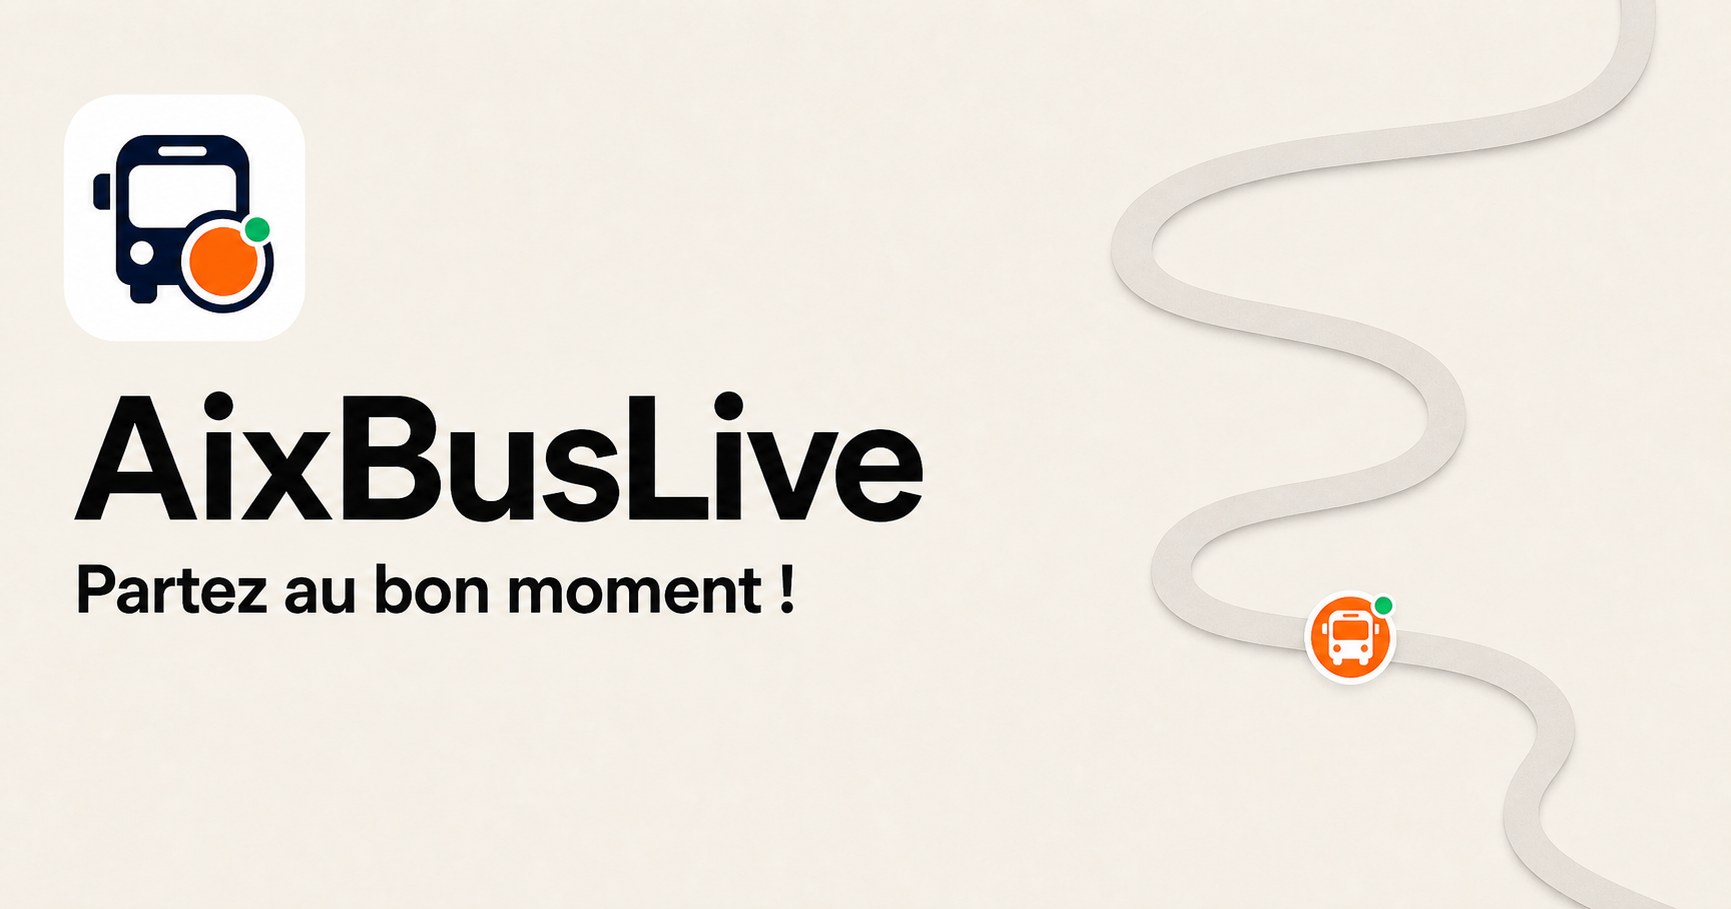
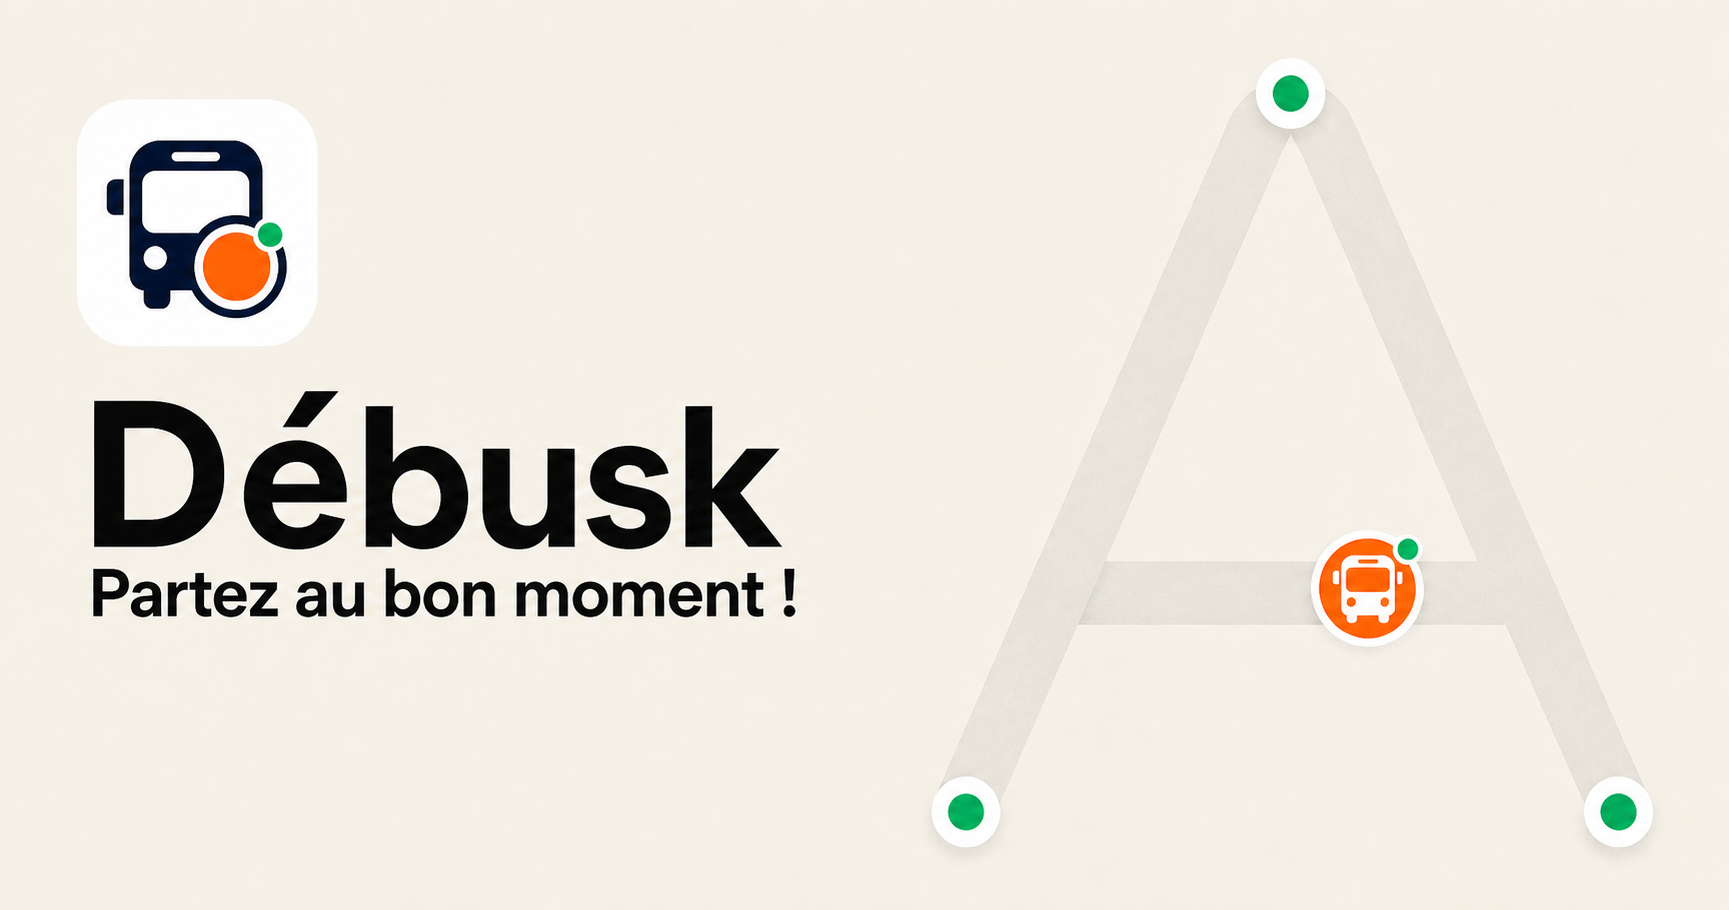
feat: rebrand landing as Débusk

diff --git a/app/ContactDialog.tsx b/app/ContactDialog.tsx
@@ -117,8 +117,8 @@ export function ContactDialog({ isOpen, onClose }: ContactDialogProps) {
     setError(null);
 
     try {
-      const senderName = cleanName || cleanEmail || "Visiteur AixBusLive";
-      const subject = `[Site AixBusLive] ${contactType}`;
+      const senderName = cleanName || cleanEmail || "Visiteur Débusk";
+      const subject = `[Site Débusk] ${contactType}`;
       const sentAt = new Intl.DateTimeFormat("fr-FR", {
         dateStyle: "full",
         timeStyle: "short",
@@ -144,8 +144,8 @@ export function ContactDialog({ isOpen, onClose }: ContactDialogProps) {
             reply_to: cleanEmail,
             message: cleanMessage,
             time: sentAt,
-            app_name: "AixBusLive",
-            source: "Site AixBusLive",
+            app_name: "Débusk",
+            source: "Site Débusk",
           },
         }),
       });
@@ -161,7 +161,7 @@ export function ContactDialog({ isOpen, onClose }: ContactDialogProps) {
       setMessage("");
       setSent(true);
     } catch (sendError) {
-      console.error("[AixBusLive contact]", sendError);
+      console.error("[Débusk contact]", sendError);
       setError("L’envoi a échoué. Réessayez dans un instant.");
     } finally {
       setSending(false);
@@ -208,7 +208,7 @@ export function ContactDialog({ isOpen, onClose }: ContactDialogProps) {
           <div className="contact-success" role="status" aria-live="polite">
             <span className="contact-success-mark" aria-hidden="true">✓</span>
             <h3>Message envoyé.</h3>
-            <p>Merci — il est bien arrivé à l’équipe AixBusLive.</p>
+            <p>Merci — il est bien arrivé à l’équipe Débusk.</p>
             <button ref={successButtonRef} type="button" onClick={onClose}>
               Fermer
             </button>

diff --git a/app/page.tsx b/app/page.tsx
@@ -8,13 +8,13 @@ const storeLinks = [
   {
     eyebrow: "Télécharger sur",
     label: "l’App Store",
-    href: "https://apps.apple.com/fr/search?term=AixBusLive",
+    href: "https://apps.apple.com/fr/search?term=D%C3%A9busk",
     Icon: FaApple,
   },
   {
     eyebrow: "Disponible sur",
     label: "Google Play",
-    href: "https://play.google.com/store/search?q=AixBusLive&c=apps",
+    href: "https://play.google.com/store/search?q=D%C3%A9busk&c=apps",
     Icon: FaGooglePlay,
   },
 ];
@@ -23,7 +23,7 @@ function StoreButtons({ compact = false }: { compact?: boolean }) {
   return (
     <div
       className={`store-actions ${compact ? "store-actions-compact" : ""}`}
-      aria-label="Télécharger AixBusLive"
+      aria-label="Télécharger Débusk"
     >
       {storeLinks.map((store, index) => {
         const Icon = store.Icon;
@@ -152,7 +152,7 @@ export default function Home() {
               unoptimized
             />
           </span>
-          <p className="section-eyebrow">AixBusLive</p>
+          <p className="section-eyebrow">Débusk</p>
           <h2 id="download-title">
             Aix avance.
             <span>Vous aussi.</span>
@@ -162,7 +162,7 @@ export default function Home() {
 
         <footer className="site-footer">
           <div className="footer-brand">
-            <span>AixBusLive</span>
+            <span>Débusk</span>
             <span>Projet indépendant fait pour Aix-en-Provence.</span>
           </div>
           <nav aria-label="Informations">

diff --git a/app/informations/page.tsx b/app/informations/page.tsx
@@ -2,9 +2,9 @@ import type { Metadata } from "next";
 import Link from "next/link";
 
 export const metadata: Metadata = {
-  title: "Informations — AixBusLive",
+  title: "Informations — Débusk",
   description:
-    "Confidentialité, mentions et sources utilisées par AixBusLive.",
+    "Confidentialité, mentions et sources utilisées par Débusk.",
 };
 
 export default function InformationsPage() {
@@ -12,7 +12,7 @@ export default function InformationsPage() {
     <main className="information-page">
       <Link className="information-back" href="/">
         <span aria-hidden="true">←</span>
-        AixBusLive
+        Débusk
       </Link>
 
       <header className="information-header">
@@ -47,7 +47,7 @@ export default function InformationsPage() {
           <div>
             <h2>Mentions</h2>
             <p>
-              AixBusLive est un projet numérique indépendant conçu à
+              Débusk est un projet numérique indépendant conçu à
               Aix-en-Provence. Il n’est ni affilié ni mandaté par Aix en Bus ou
               la Métropole Aix-Marseille-Provence.
             </p>
@@ -77,7 +77,7 @@ export default function InformationsPage() {
       </div>
 
       <footer className="information-footer">
-        <span>AixBusLive</span>
+        <span>Débusk</span>
         <Link href="/">Retour au site</Link>
       </footer>
     </main>

diff --git a/app/AppShowcase.tsx b/app/AppShowcase.tsx
@@ -19,7 +19,7 @@ const slides = [
     height: 1672,
     title: "Les bus autour de vous",
     copy: "Repérez les lignes sur la carte et accédez aux prochains départs.",
-    alt: "Carte AixBusLive affichant les bus autour de l’utilisateur",
+    alt: "Carte Débusk affichant les bus autour de l’utilisateur",
   },
   {
     image: "/app-screens/favoris-choix-bus.png",
@@ -60,7 +60,7 @@ const slides = [
     height: 1666,
     title: "Prévenez la communauté",
     copy: "Signalez rapidement un retard, un bus complet ou un incident sur le réseau.",
-    alt: "Choix d’un signalement communautaire dans AixBusLive",
+    alt: "Choix d’un signalement communautaire dans Débusk",
   },
   {
     image: "/app-screens/progression-communautaire.png",
@@ -150,7 +150,7 @@ export function AppShowcase() {
         tabIndex={0}
         role="region"
         aria-roledescription="carrousel"
-        aria-label="Découvrir les écrans d’AixBusLive"
+        aria-label="Découvrir les écrans de Débusk"
       >
         {slides.map((slide, index) => (
           <article

diff --git a/app/layout.tsx b/app/layout.tsx
@@ -12,14 +12,14 @@ export async function generateMetadata(): Promise<Metadata> {
     (host?.startsWith("localhost") ? "http" : "https");
   const socialImage = host ? `${protocol}://${host}/og.png` : undefined;
 
-  const title = "AixBusLive — Partez au bon moment !";
+  const title = "Débusk — Partez au bon moment !";
   const description =
     "Le bus en direct, enrichi par la communauté d’Aix-en-Provence.";
 
   return {
-    title: "AixBusLive — Partez au bon moment !",
+    title: "Débusk — Partez au bon moment !",
     description,
-    applicationName: "AixBusLive",
+    applicationName: "Débusk",
     icons: {
       icon: "/icon-192.png",
       apple: "/icon-192.png",
@@ -35,8 +35,8 @@ export async function generateMetadata(): Promise<Metadata> {
             {
               url: socialImage,
               width: 1729,
-              height: 909,
-              alt: "AixBusLive — Partez au bon moment !",
+              height: 910,
+              alt: "Débusk — Partez au bon moment !",
             },
           ]
         : undefined,

diff --git a/app/SiteHeader.tsx b/app/SiteHeader.tsx
@@ -138,7 +138,7 @@ export function SiteHeader() {
         <a
           className="wordmark"
           href="#top"
-          aria-label="AixBusLive, accueil"
+          aria-label="Débusk, accueil"
           data-cursor-kind="home"
           onClick={(event) => navigateTo(event, "#top")}
         >
@@ -152,7 +152,7 @@ export function SiteHeader() {
               unoptimized
             />
           </span>
-          <span>AixBusLive</span>
+          <span>Débusk</span>
         </a>
 
         <div className="header-actions">

diff --git a/worker/index.ts b/worker/index.ts
@@ -1,4 +1,4 @@
-/** Cloudflare Worker entry point for the AixBusLive public site. */
+/** Cloudflare Worker entry point for the Débusk public site. */
 import { handleImageOptimization, DEFAULT_DEVICE_SIZES, DEFAULT_IMAGE_SIZES } from "vinext/server/image-optimization";
 import handler from "vinext/server/app-router-entry";
 

diff --git a/README.md b/README.md
@@ -1,6 +1,6 @@
-# AixBusLive — site
+# Débusk — site
 
-Site public de présentation d’AixBusLive, construit avec Next.js, React et
+Site public de présentation de Débusk, construit avec Next.js, React et
 vinext pour OpenAI Sites.
 
 ## Contenu
